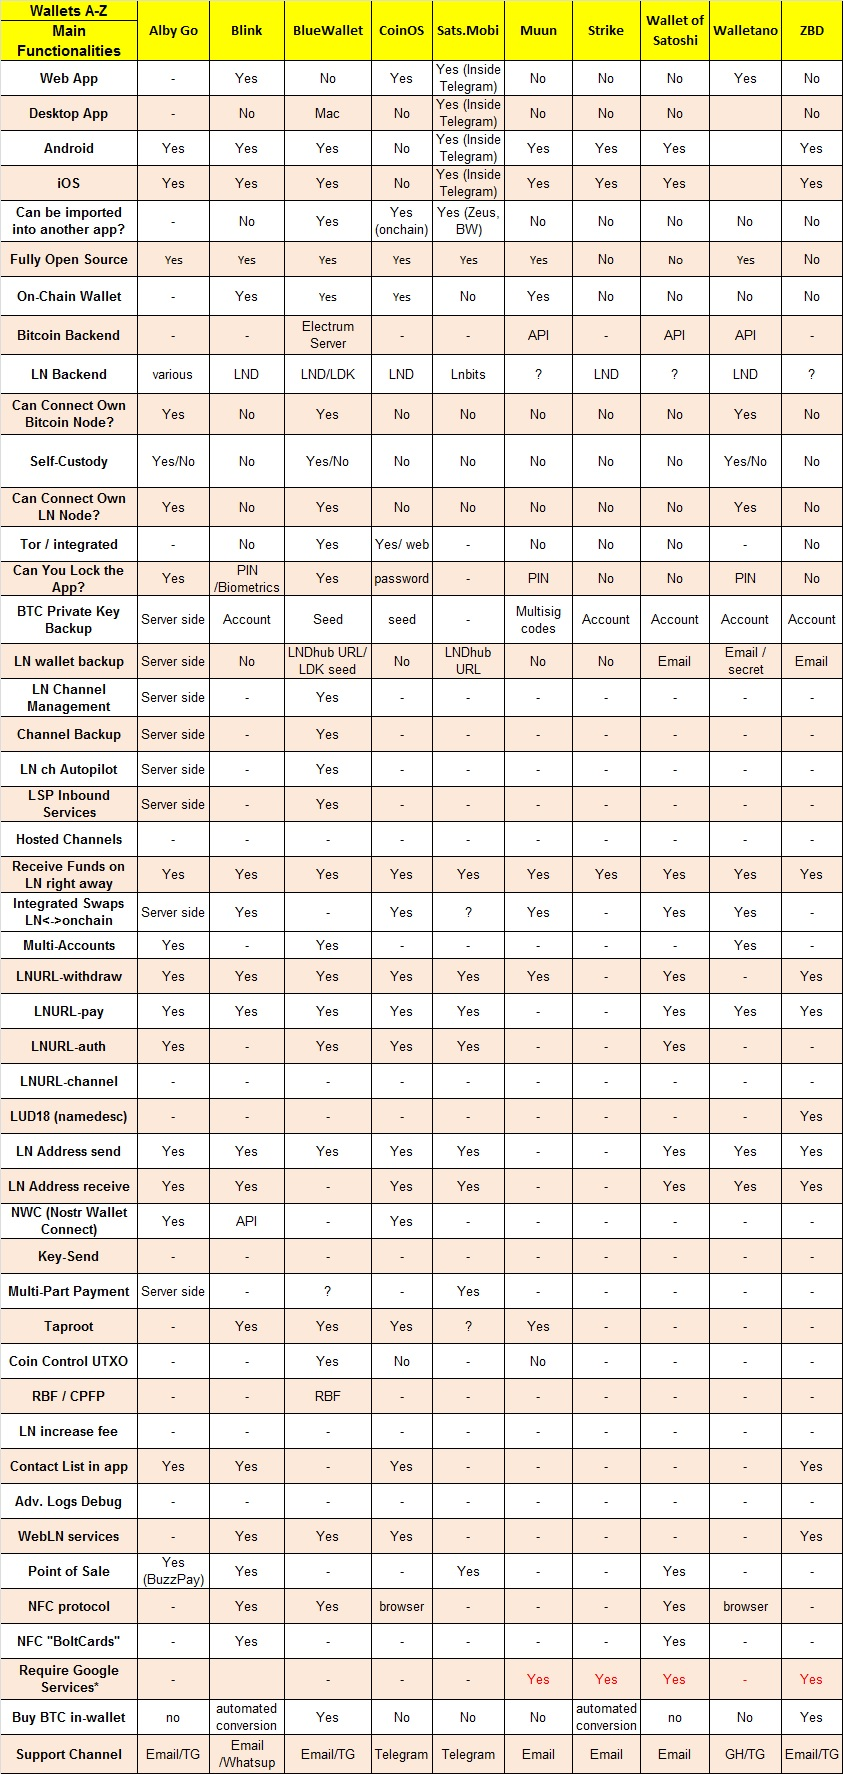
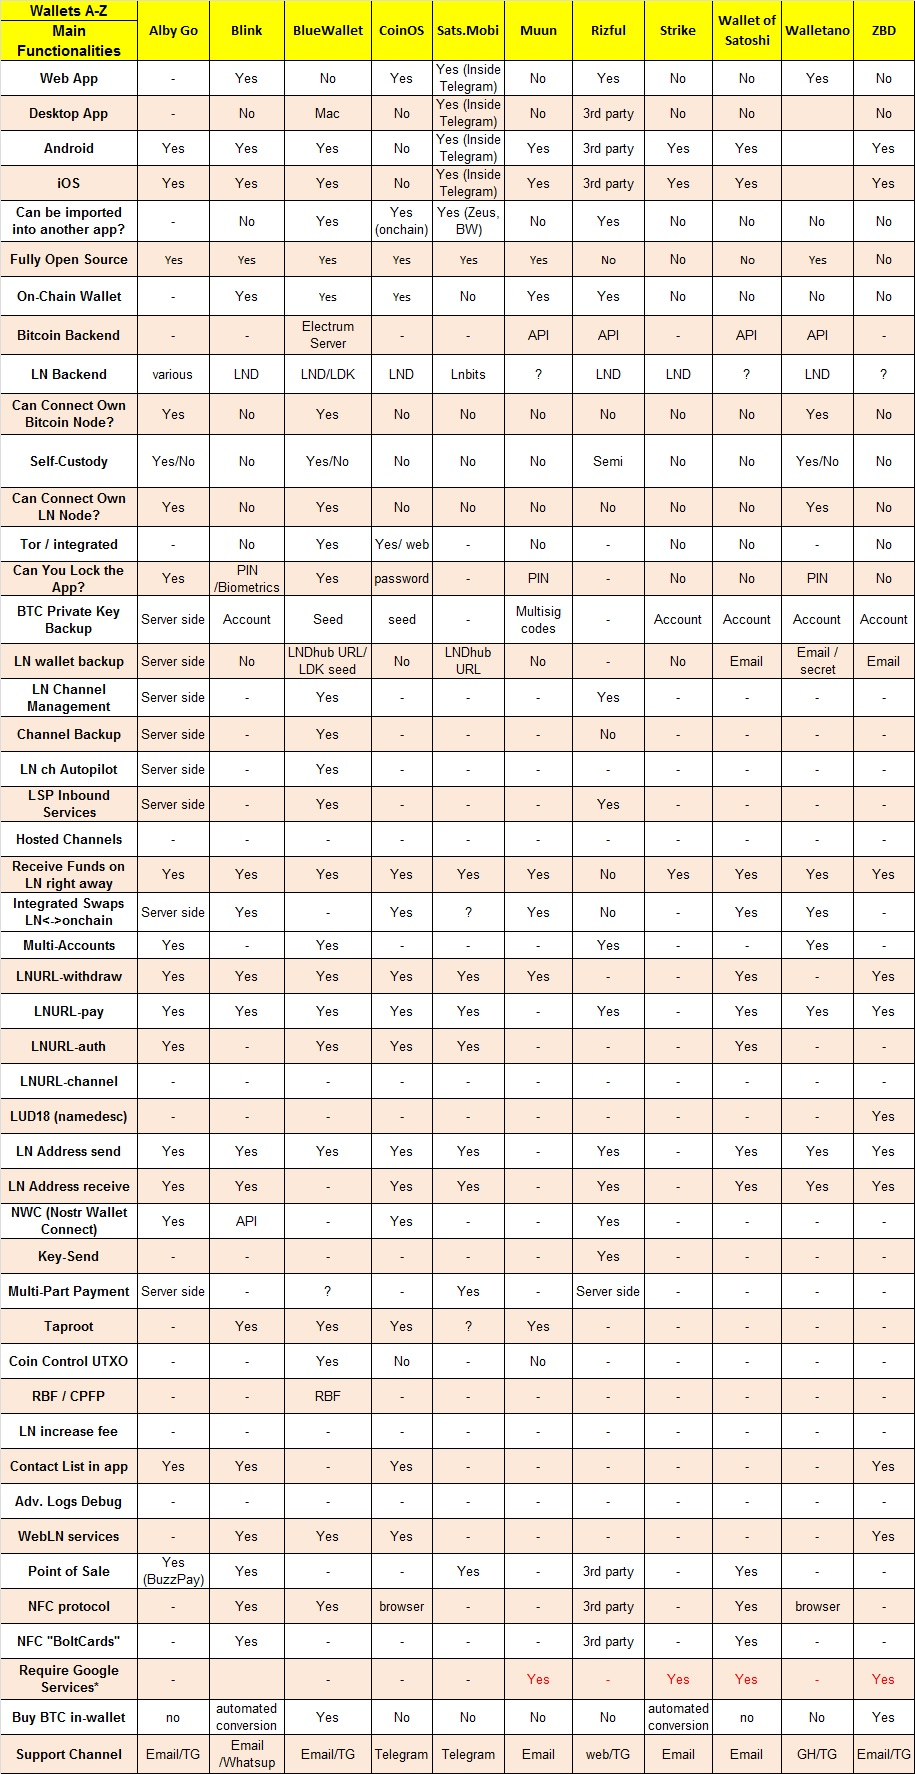
add rizful

diff --git a/wallets/lightning-wallets-comparison-hi.html b/wallets/lightning-wallets-comparison-hi.html
@@ -23,7 +23,7 @@ image: /assets/images/wallets-LN.jpg
 </center>
 <blockquote style="color:Tomato;"><em>
 <p>मूल रूप से <a href="https://darthcoin.substack.com/p/lightning-wallets-comparison">Substack</a> पर 27 फरवरी, 2022 को पोस्ट किया गया</p>
-<p>25 फरवरी 2025 को यहां अपडेट किया गया</p>
+<p>मार्च 20 2025 को यहां अपडेट किया गया</p>
 </em></blockquote>
 
 <h2>परिचय</h2>
@@ -79,6 +79,7 @@ image: /assets/images/wallets-LN.jpg
 <li>CoinOS - <a href="https://coinos.io/">वेबपेज</a> | <a href="https://github.com/CoinOS">Github</a> | <a href="https://coinos.io/docs">दस्तावेज़</a> | <a href="https://t.me/coinoswallet">टेलीग्राम</a></li>
 <li>Sats Mobi - <a href="https://t.me/SatsMobiBot">Telegram Bot Wallet POS</a></li>
 <li>Muun - <a href="https://muun.com/">वेबपेज</a> | <a href="https://github.com/muun/apollo">Github</a> | Google सेवाओं की आवश्यकता है!</li>
+<li>Rizful - <a href="https://rizful.com/">Webpage</a> | <a href="https://stacker.news/items/904362/r/DarthCoin">DC Guide</a></li>
 <li>Strike - <a href="https://strike.me/">वेबपेज</a> | Google सेवाओं की आवश्यकता है!</li>
 <li>Wallet of Satoshi - <a href="https://www.walletofsatoshi.com/">वेबपेज</a> | Google सेवाओं की आवश्यकता है!</li>
 <li>Walletano - <a href="https://www.walletano.com/">वेबपेज</a> | <a href="https://github.com/Walletano">Github</a> | <a href="https://t.me/walletanoCH">टेलीग्राम</a> | <a href="https://nostr.at/npub12eqwteq2c2w9trgt95d3w4cky0quprprp42xefy8snw8tdexq5gsp9c5ek">नोस्ट्र</a> | <a href="/wallets/getting-started-walletano-hi.html">DC गाइड</a></li>

diff --git a/wallets/lightning-wallets-comparison-es.html b/wallets/lightning-wallets-comparison-es.html
@@ -23,7 +23,7 @@ image: /assets/images/wallets-LN.jpg
 </center>
 <blockquote style="color:Tomato;"><em>
 <p>Publicado originalmente en <a href="https://darthcoin.substack.com/p/lightning-wallets-comparison">Substack</a> el 27 de febrero de 2022</p>
-<p>Actualizado aquí el 25 de febrero de 2025</p>
+<p>Actualizado aquí el 20 de marzo de 2025</p>
 </em></blockquote>
 
 <h2>Introducción</h2>
@@ -80,6 +80,7 @@ image: /assets/images/wallets-LN.jpg
 <li>CoinOS - <a href="https://coinos.io/">Página web</a> | <a href="https://github.com/CoinOS">Github</a> | <a href="https://coinos.io/docs">Documentación</a> | <a href="https://t.me/coinoswallet">Telegram</a></li>
 <li>Sats Mobi - <a href="https://t.me/SatsMobiBot">Telegram Bot Wallet POS</a></li>
 <li>Muun - <a href="https://muun.com/">Página web</a> | <a href="https://github.com/muun/apollo">Github</a> | ¡requiere los servicios de Google!</li>
+<li>Rizful - <a href="https://rizful.com/">Webpage</a> | <a href="https://stacker.news/items/904362/r/DarthCoin">DC Guide</a></li>
 <li>Strike - <a href="https://strike.me/">Página web</a> | ¡requiere los servicios de Google!</li>
 <li>Wallet of Satoshi - <a href="https://www.walletofsatoshi.com/">Página web</a> | ¡Requiere los servicios de Google!</li>
 <li>Walletano - <a href="https://www.walletano.com/">Página web</a> | <a href="https://github.com/Walletano">Github</a> | <a href="https://t.me/walletanoCH">Telegram</a> | <a href="https://nostr.at/npub12eqwteq2c2w9trgt95d3w4cky0quprprp42xefy8snw8tdexq5gsp9c5ek">Nostr</a> | <a href="/wallets/getting-started-walletano-es.html">Guía de DC</a></li>

diff --git a/wallets/lightning-wallets-comparison-pt.html b/wallets/lightning-wallets-comparison-pt.html
@@ -24,7 +24,7 @@ image: /assets/images/wallets-LN.jpg
 </center>
 <blockquote style="color:Tomato;"><em>
 <p>Postado originalmente em <a href="https://darthcoin.substack.com/p/lightning-wallets-comparison">Substack</a> em 27 de fevereiro de 2022</p>
-<p>Atualizado aqui em 25 de fevereiro de 2025</p>
+<p>Atualizado aqui em 20 de março de 2025</p>
 </em></blockquote>
 
 <h2>Introdução</h2>
@@ -80,6 +80,7 @@ image: /assets/images/wallets-LN.jpg
 <li>CoinOS - <a href="https://coinos.io/">Página da Web</a> | <a href="https://github.com/CoinOS">Github</a> | <a href="https://coinos.io/docs">Documentação</a> | <a href="https://t.me/coinoswallet">Telegram</a></li>
 <li>Sats Mobi - <a href="https://t.me/SatsMobiBot">Telegram Bot Wallet POS</a></li>
 <li>Muun - <a href="https://muun.com/">Página da Web</a> | <a href="https://github.com/muun/apollo">Github</a> | requer serviços do Google!</li>
+<li>Rizful - <a href="https://rizful.com/">Webpage</a> | <a href="https://stacker.news/items/904362/r/DarthCoin">DC Guide</a></li>
 <li>Strike - <a href="https://strike.me/">Página da Web</a> | requer serviços do Google!</li>
 <li>Wallet of Satoshi - <a href="https://www.walletofsatoshi.com/">Página da Web</a> | requer serviços do Google!</li>
 <li>Walletano - <a href="https://www.walletano.com/">Página da Web</a> | <a href="https://github.com/Walletano">Github</a> | <a href="https://t.me/walletanoCH">Telegram</a> | <a href="https://nostr.at/npub12eqwteq2c2w9trgt95d3w4cky0quprprp42xefy8snw8tdexq5gsp9c5ek">Nostr</a> | <a href="/wallets/getting-started-walletano-pt.html">Guia DC</a></li>

diff --git a/wallets/lightning-wallets-comparison-hr.html b/wallets/lightning-wallets-comparison-hr.html
@@ -23,7 +23,7 @@ image: /assets/images/wallets-LN.jpg
 </center>
 <blockquote style="color:Tomato;"><em>
 <p>Izvorno objavljeno na <a href="https://darthcoin.substack.com/p/lightning-wallets-comparison">Substack</a> 27. veljače 2022.</p>
-<p>Ovdje ažurirano 25. veljače 2025.</p>
+<p>Ovdje ažurirano 20. ožujka 2025.</p>
 </em></blockquote>
 
 <h2>Uvod</h2>
@@ -80,6 +80,7 @@ image: /assets/images/wallets-LN.jpg
 <li>CoinOS - <a href="https://coinos.io/">Web stranica</a> | <a href="https://github.com/CoinOS">Github</a> | <a href="https://coinos.io/docs">Dokumenti</a> | <a href="https://t.me/coinoswallet">Telegram</a></li>
 <li>Sats Mobi - <a href="https://t.me/SatsMobiBot">Telegram Bot Wallet POS</a></li>
 <li>Muun - <a href="https://muun.com/">Web stranica</a> | <a href="https://github.com/muun/apollo">Github</a> | zahtijevaju Googleove usluge!</li>
+<li>Rizful - <a href="https://rizful.com/">Webpage</a> | <a href="https://stacker.news/items/904362/r/DarthCoin">DC Guide</a></li>
 <li>Strike - <a href="https://strike.me/">Web stranica</a> | zahtijevaju Googleove usluge!</li>
 <li>Satoshijev novčanik - <a href="https://www.walletofsatoshi.com/">Web stranica</a> | zahtijevaju Googleove usluge!</li>
 <li>Walletano - <a href="https://www.walletano.com/">Web stranica</a> | <a href="https://github.com/Walletano">Github</a> | <a href="https://t.me/walletanoCH">Telegram</a> | <a href="https://nostr.at/npub12eqwteq2c2w9trgt95d3w4cky0quprprp42xefy8snw8tdexq5gsp9c5ek">Nostr</a> | <a href="/wallets/getting-started-walletano-hr.html">Vodič za DC</a></li>

diff --git a/wallets/lightning-wallets-comparison-it.html b/wallets/lightning-wallets-comparison-it.html
@@ -23,7 +23,7 @@ image: /assets/images/wallets-LN.jpg
 </center>
 <blockquote style="color:Tomato;"><em>
 <p>Pubblicato originariamente su <a href="https://darthcoin.substack.com/p/lightning-wallets-comparison">Substack</a> il 22 febbraio 2022</p>
-<p>Aggiornato qui il 25 febbraio 2025</p>
+<p>Aggiornato qui il 20 marzo 2025</p>
 </em></blockquote>
 
 <h2>Introduzione</h2>
@@ -80,6 +80,7 @@ image: /assets/images/wallets-LN.jpg
 <li>CoinOS - <a href="https://coinos.io/">Pagina web</a> | <a href="https://github.com/CoinOS">Github</a> | <a href="https://coinos.io/docs">Documentazione</a> | <a href="https://t.me/coinoswallet">Telegram</a></li>
 <li>Sats Mobi - <a href="https://t.me/SatsMobiBot">Telegram Bot Wallet POS</a></li>
 <li>Muun - <a href="https://muun.com/">Pagina web</a> | <a href="https://github.com/muun/apollo">Github</a> | richiedono i servizi Google!</li>
+<li>Rizful - <a href="https://rizful.com/">Webpage</a> | <a href="https://stacker.news/items/904362/r/DarthCoin">DC Guide</a></li>
 <li>Strike - <a href="https://strike.me/">Pagina web</a> | richiedono i servizi Google!</li>
 <li>Wallet of Satoshi - <a href="https://www.walletofsatoshi.com/">Pagina web</a> | richiedono i servizi Google!</li>
 <li>Walletano - <a href="https://www.walletano.com/">Pagina Web</a> | <a href="https://github.com/Walletano">Github</a> | <a href="https://t.me/walletanoCH">Telegram</a> | <a href="https://nostr.at/npub12eqwteq2c2w9trgt95d3w4cky0quprprp42xefy8snw8tdexq5gsp9c5ek">Nostr</a> | <a href="/wallets/getting-started-walletano-it.html">Guida DC</a></li>

diff --git a/wallets/lightning-wallets-comparison-de.html b/wallets/lightning-wallets-comparison-de.html
@@ -23,7 +23,7 @@ image: /assets/images/wallets-LN.jpg
 </center>
 <blockquote style="color:Tomato;"><em>
 <p>Ursprünglich gepostet auf <a href="https://darthcoin.substack.com/p/lightning-wallets-comparison">Substack</a> am 27. Feb. 2022</p>
-<p>Hier aktualisiert am 25. Februar 2025</p>
+<p>Hier aktualisiert am 20. März 2025</p>
 </em></blockquote>
 
 <h2>Einführung</h2>
@@ -80,6 +80,7 @@ image: /assets/images/wallets-LN.jpg
 <li>CoinOS – <a href="https://coinos.io/">Webseite</a> | <a href="https://github.com/CoinOS">Github</a> | <a href="https://coinos.io/docs">Dokumente</a> | <a href="https://t.me/coinoswallet">Telegram</a></li>
 <li>Sats Mobi - <a href="https://t.me/SatsMobiBot">Telegram Bot Wallet POS</a></li>
 <li>Muun - <a href="https://muun.com/">Webseite</a> | <a href="https://github.com/muun/apollo">Github</a> | erfordert Google Services !</li>
+<li>Rizful - <a href="https://rizful.com/">Webpage</a> | <a href="https://stacker.news/items/904362/r/DarthCoin">DC Guide</a></li>
 <li>Strike - <a href="https://strike.me/">Webseite</a> | erfordert Google Services !</li>
 <li>Wallet of Satoshi - <a href="https://www.walletofsatoshi.com/">Webseite</a> | erfordert Google Services !</li>
 <li>Walletano - <a href="https://www.walletano.com/">Webseite</a> | <a href="https://github.com/Walletano">Github</a> | <a href="https://t.me/walletanoCH">Telegram</a> | <a href="https://nostr.at/npub12eqwteq2c2w9trgt95d3w4cky0quprprp42xefy8snw8tdexq5gsp9c5ek">Nostr</a> | <a href="/wallets/getting-started-walletano-de.html">DC-Leitfaden</a></li>

diff --git a/wallets/lightning-wallets-comparison-fr.html b/wallets/lightning-wallets-comparison-fr.html
@@ -23,7 +23,7 @@ image: /assets/images/wallets-LN.jpg
 </center>
 <blockquote style="color:Tomato;"><em>
 <p>Publié à l'origine sur <a href="https://darthcoin.substack.com/p/lightning-wallets-comparison">Substack</a> le 27 février 2022</p>
-<p>Mis à jour ici le 25 février 2025</p>
+<p>Mis à jour ici le 20 mars 2025</p>
 </em></blockquote>
 
 <h2>Introduction</h2>
@@ -80,6 +80,7 @@ image: /assets/images/wallets-LN.jpg
 <li>CoinOS - <a href="https://coinos.io/">Page Web</a> | <a href="https://github.com/CoinOS">Github</a> | <a href="https://coinos.io/docs">Docs</a> | <a href="https://t.me/coinoswallet">Telegram</a></li>
 <li>Sats Mobi - <a href="https://t.me/SatsMobiBot">Telegram Bot Wallet POS</a></li>
 <li>Muun - <a href="https://muun.com/">Page Web</a> | <a href="https://github.com/muun/apollo">Github</a> | nécessite les services Google !</li>
+<li>Rizful - <a href="https://rizful.com/">Webpage</a> | <a href="https://stacker.news/items/904362/r/DarthCoin">DC Guide</a></li>
 <li>Strike - <a href="https://strike.me/">Page Web</a> | nécessite les services Google !</li>
 <li>Wallet of Satoshi - <a href="https://www.walletofsatoshi.com/">Page Web</a> | nécessite les services Google !</li>
 <li>Walletano - <a href="https://www.walletano.com/">Page Web</a> | <a href="https://github.com/Walletano">Github</a> | <a href="https://t.me/walletanoCH">Telegram</a> | <a href="https://nostr.at/npub12eqwteq2c2w9trgt95d3w4cky0quprprp42xefy8snw8tdexq5gsp9c5ek">Nostr</a> | <a href="/wallets/getting-started-walletano-fr.html">Guide DC</a></li>

diff --git a/wallets/lightning-wallets-comparison-nl.html b/wallets/lightning-wallets-comparison-nl.html
@@ -23,7 +23,7 @@ image: /assets/images/wallets-LN.jpg
 </center>
 <blockquote style="color:Tomato;"><em>
 <p>Oorspronkelijk geplaatst op <a href="https://darthcoin.substack.com/p/lightning-wallets-comparison">Substack</a> op 27 feb. 2022</p>
-<p>Hier bijgewerkt op 25 februari 2025</p>
+<p>Hier bijgewerkt op 20 maart 2025</p>
 </em></blockquote>
 
 <h2>Introductie</h2>
@@ -80,6 +80,7 @@ image: /assets/images/wallets-LN.jpg
 <li>CoinOS - <a href="https://coinos.io/">Webpagina</a> | <a href="https://github.com/CoinOS">Github</a> | <a href="https://coinos.io/docs">Documentatie</a> | <a href="https://t.me/coinoswallet">Telegram</a></li>
 <li>Sats Mobi - <a href="https://t.me/SatsMobiBot">Telegram Bot Wallet POS</a></li>
 <li>Muun - <a href="https://muun.com/">Webpagina</a> | <a href="https://github.com/muun/apollo">Github</a> | vereist Google Services !</li>
+<li>Rizful - <a href="https://rizful.com/">Webpage</a> | <a href="https://stacker.news/items/904362/r/DarthCoin">DC Guide</a></li>
 <li>Strike - <a href="https://strike.me/">Webpagina</a> | vereist Google Services !</li>
 <li>Wallet of Satoshi - <a href="https://www.walletofsatoshi.com/">Webpagina</a> | vereist Google Services !</li>
 <li>Walletano - <a href="https://www.walletano.com/">Webpagina</a> | <a href="https://github.com/Walletano">Github</a> | <a href="https://t.me/walletanoCH">Telegram</a> | <a href="https://nostr.at/npub12eqwteq2c2w9trgt95d3w4cky0quprprp42xefy8snw8tdexq5gsp9c5ek">Nostr</a> | <a href="/wallets/getting-started-walletano-nl.html">DC-gids</a></li>

diff --git a/wallets/lightning-wallets-comparison-en.html b/wallets/lightning-wallets-comparison-en.html
@@ -24,7 +24,7 @@ image: /assets/images/wallets-LN.jpg
 </center>
 <blockquote style="color:Tomato;"><em>
 <p>Originally posted on <a href="https://darthcoin.substack.com/p/lightning-wallets-comparison">Substack</a> on Feb 27, 2022</p>
-<p>Updated here on Feb 25, 2025</p>
+<p>Updated here on Mar 20, 2025</p>
 </em></blockquote>
 
 <h2>Introduction</h2>
@@ -80,6 +80,7 @@ image: /assets/images/wallets-LN.jpg
 <li>CoinOS - <a href="https://coinos.io/">Webpage</a> | <a href="https://github.com/CoinOS">Github</a> | <a href="https://coinos.io/docs">Docs</a> | <a href="https://t.me/coinoswallet">Telegram</a></li>
 <li>Sats Mobi - <a href="https://t.me/SatsMobiBot">Telegram Bot Wallet POS</a></li>
 <li>Muun - <a href="https://muun.com/">Webpage</a> | <a href="https://github.com/muun/apollo">Github</a> | require Google Services !</li>
+<li>Rizful - <a href="https://rizful.com/">Webpage</a> | <a href="https://stacker.news/items/904362/r/DarthCoin">DC Guide</a></li>
 <li>Strike - <a href="https://strike.me/">Webpage</a> | require Google Services !</li>
 <li>Wallet of Satoshi - <a href="https://www.walletofsatoshi.com/">Webpage</a> | require Google Services !</li>
 <li>Walletano - <a href="https://www.walletano.com/">Webpage</a> | <a href="https://github.com/Walletano">Github</a> | <a href="https://t.me/walletanoCH">Telegram</a> | <a href="https://nostr.at/npub12eqwteq2c2w9trgt95d3w4cky0quprprp42xefy8snw8tdexq5gsp9c5ek">Nostr</a> | <a href="/wallets/getting-started-walletano-en.html">DC Guide</a></li>

diff --git a/beginner/getting-started-stack-sats-hi.html b/beginner/getting-started-stack-sats-hi.html
@@ -64,6 +64,7 @@ image: /assets/images/wallets-ladder.jpg
 <li>LN Voltz - <a href="https://lnvoltz.com/">वेबपेज</a> (ब्राजील का LNBits सामुदायिक बैंक, सभी सुविधाओं के साथ)</li>
 <li>La Wallet - <a href="https://lawallet.io/">वेबपेज</a> (अर्जेंटीना का सामुदायिक LN बैंक)</li>
 <li>Wallet of Satoshi - <a href="https://www.walletofsatoshi.com/">वेबपेज</a> (Google की आवश्यकता है सेवाएँ, PoS, एकीकृत स्वैप)</li>
+<li>Rizful - <a href="https://rizful.com/">Webpage</a> | <a href="https://stacker.news/items/904362/r/DarthCoin">DC Guide</a> | क्लाउड में अपना स्वयं का LN नोड शुरू करना बहुत आसान है</li>
 <li>CashApp - <a href="https://cash.app/">वेबपेज</a> (Google सेवाएँ, लाइट KYC, एकीकृत स्वैप की आवश्यकता है)</li>
 <li>Strike - <a href="https://strike.me/">वेबपेज</a> (Google सेवाएँ, पूर्ण KYC, एकीकृत स्वैप की आवश्यकता है)</li>
 <li>Zebedee - <a href="https://zbd.gg/">वेबपेज</a> (Google सेवाएँ, लाइट KYC की आवश्यकता है)</li>

diff --git a/beginner/getting-started-stack-sats-es.html b/beginner/getting-started-stack-sats-es.html
@@ -65,6 +65,7 @@ Bitcoin Layer 2 (Lightning Network - LN): es un sistema de contabilidad que le p
 <li>LN Voltz - <a href="https://lnvoltz.com/">Página web</a> (Banco LN comunitario brasileño, LNBits con todas las funciones)</li>
 <li>La Wallet - <a href="https://lawallet.io/">Página web</a> (Banco LN comunitario argentino)</li>
 <li>Wallet of Satoshi - <a href="https://www.walletofsatoshi.com/">Página web</a> (requiere servicios de Google, PoS, swaps integrados)</li>
+<li>Rizful - <a href="https://rizful.com/">Webpage</a> | <a href="https://stacker.news/items/904362/r/DarthCoin">DC Guide</a> | Es muy fácil iniciar tu propio nodo LN en la nube</li>
 <li>CashApp - <a href="https://cash.app/">Página web</a> (requiere los servicios de Google, KYC ligero, swaps integrados)</li>
 <li>Strike - <a href="https://strike.me/">Página web</a> (requiere los servicios de Google, KYC completo, swaps integrados)</li>
 <li>Zebedee - <a href="https://zbd.gg/">Página web</a> (requiere los servicios de Google, KYC ligero)</li>

diff --git a/beginner/getting-started-stack-sats-hr.html b/beginner/getting-started-stack-sats-hr.html
@@ -64,6 +64,7 @@ Bitcoin Layer 2 (Lightning Network - LN): je računovodstveni sustav koji vam om
 <li>LN Voltz - <a href="https://lnvoltz.com/">Web stranica</a> (Brazilska LNBits Community Bank, sa svim značajkama)</li>
 <li>La Wallet - <a href="https://lawallet.io/">Web stranica</a> (LN banka argentinske zajednice)</li>
 <li>Wallet of Satoshi - <a href="https://www.walletofsatoshi.com/">Web stranica</a> (zahtijeva Googleove usluge, PoS, integrirane zamjene)</li>
+<li>Rizful - <a href="https://rizful.com/">Webpage</a> | <a href="https://stacker.news/items/904362/r/DarthCoin">DC Guide</a> | Vrlo jednostavno pokrenuti vlastiti LN čvor u oblaku</li>
 <li>CashApp - <a href="https://cash.app/">Web stranica</a> (zahtijevaju Googleove usluge, lagani KYC, integrirane zamjene)</li>
 <li>Strike - <a href="https://strike.me/">Web stranica</a> (zahtijeva Googleove usluge, puni KYC, integrirane zamjene)</li>
 <li>Zebedee - <a href="https://zbd.gg/">Web stranica</a> (zahtijeva Googleove usluge, svjetlo KYC)</li>
